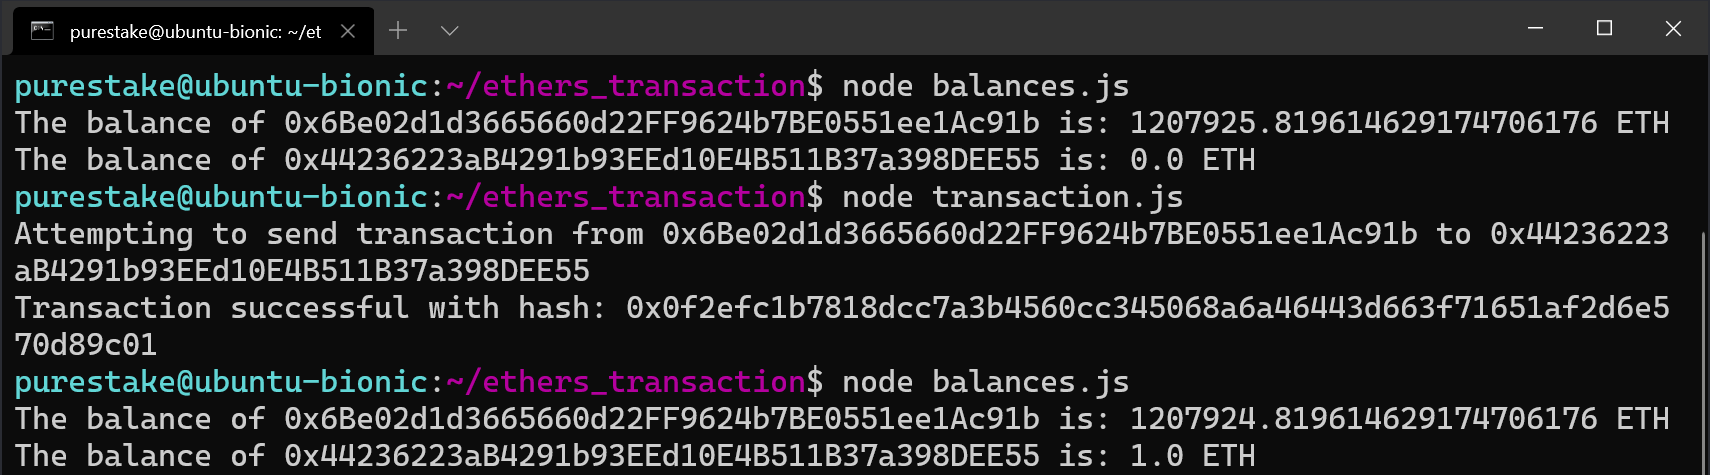
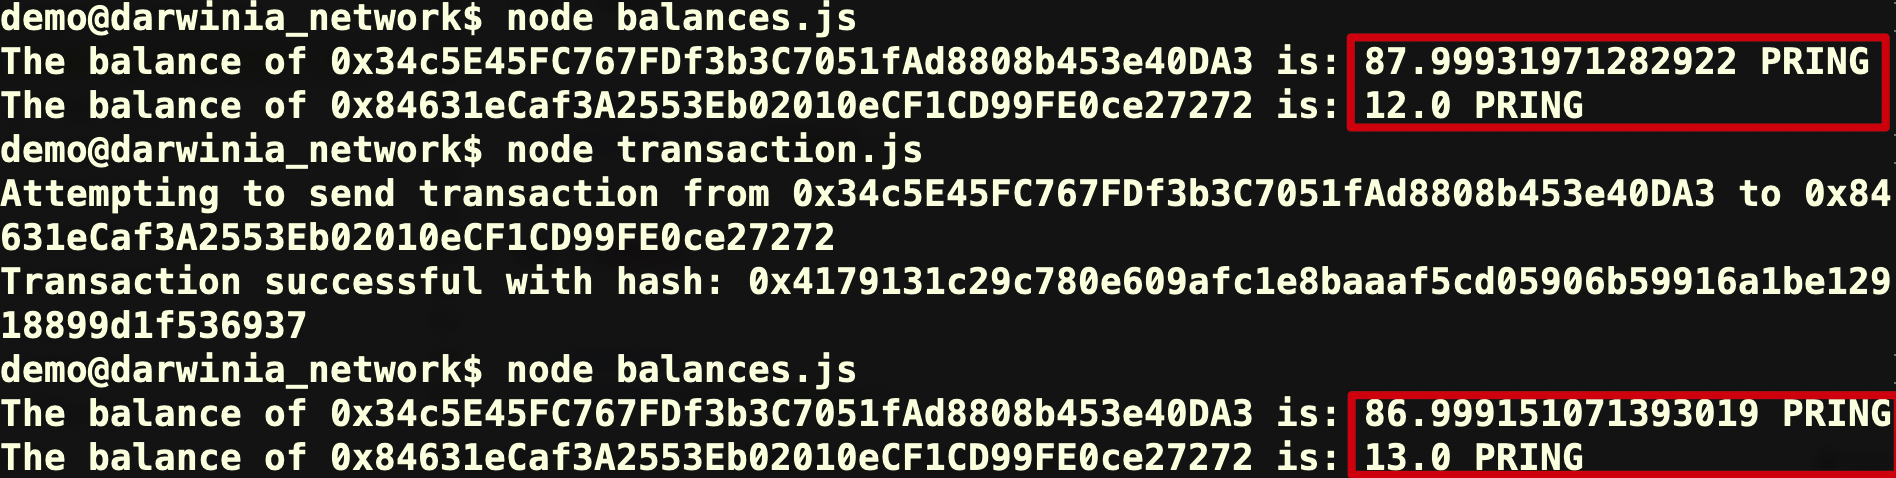
Replaced token names and screenshots

diff --git a/static/snippets/code/ethers-tx-local/balances.js b/static/snippets/code/ethers-tx-local/balances.js
@@ -45,8 +45,8 @@ const balances = async () => {
       await provider.getBalance(addressTo)
    );
 
-   console.log(`The balance of ${addressFrom} is: ${balanceFrom} ETH`);
-   console.log(`The balance of ${addressTo} is: ${balanceTo} ETH`);
+   console.log(`The balance of ${addressFrom} is: ${balanceFrom} PRING`);
+   console.log(`The balance of ${addressTo} is: ${balanceTo} PRING`);
 };
 
 balances();

diff --git a/docs/builders/interact/eth-libraries/send-transaction.md b/docs/builders/interact/eth-libraries/send-transaction.md
@@ -366,8 +366,8 @@ const balances = async () => {
       'ether'
    );
 
-   console.log(`The balance of ${addressFrom} is: ${balanceFrom} ETH`);
-   console.log(`The balance of ${addressTo} is: ${balanceTo} ETH`);
+   console.log(`The balance of ${addressFrom} is: ${balanceFrom} PRING`);
+   console.log(`The balance of ${addressTo} is: ${balanceTo} PRING`);
 };
 
 balances();
@@ -424,8 +424,8 @@ const balances = async () => {
       await provider.getBalance(addressTo)
    );
 
-   console.log(`The balance of ${addressFrom} is: ${balanceFrom} ETH`);
-   console.log(`The balance of ${addressTo} is: ${balanceTo} ETH`);
+   console.log(`The balance of ${addressFrom} is: ${balanceFrom} PRING`);
+   console.log(`The balance of ${addressTo} is: ${balanceTo} PRING`);
 };
 
 balances();
